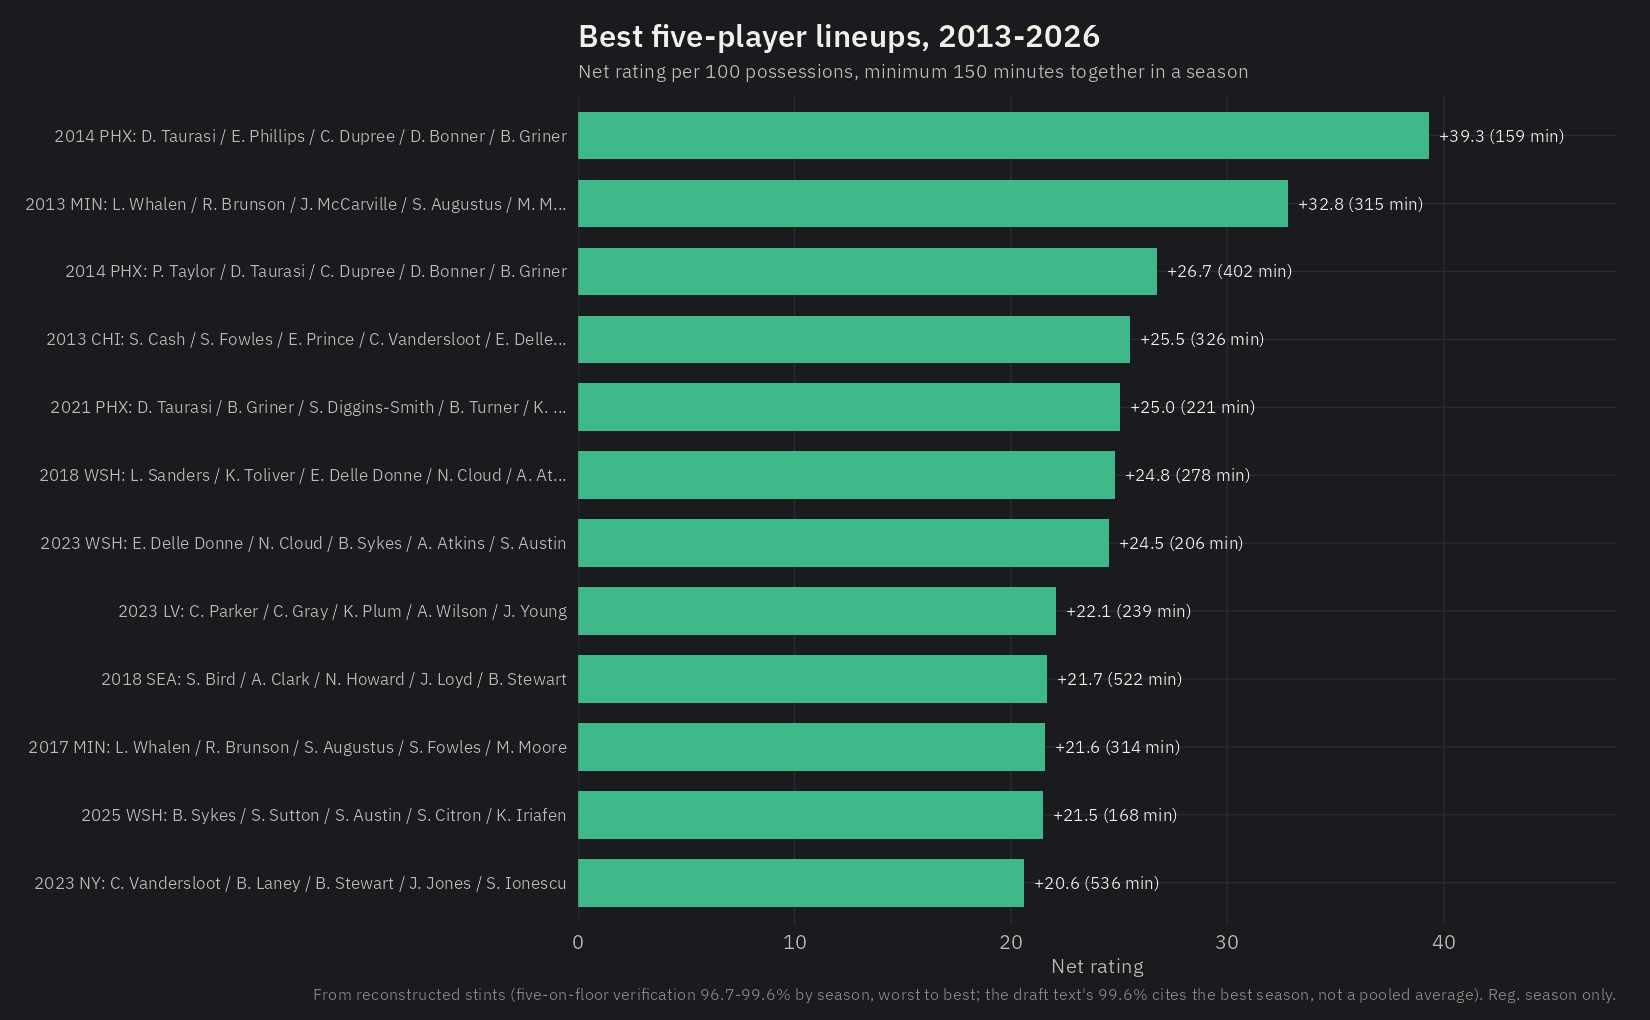
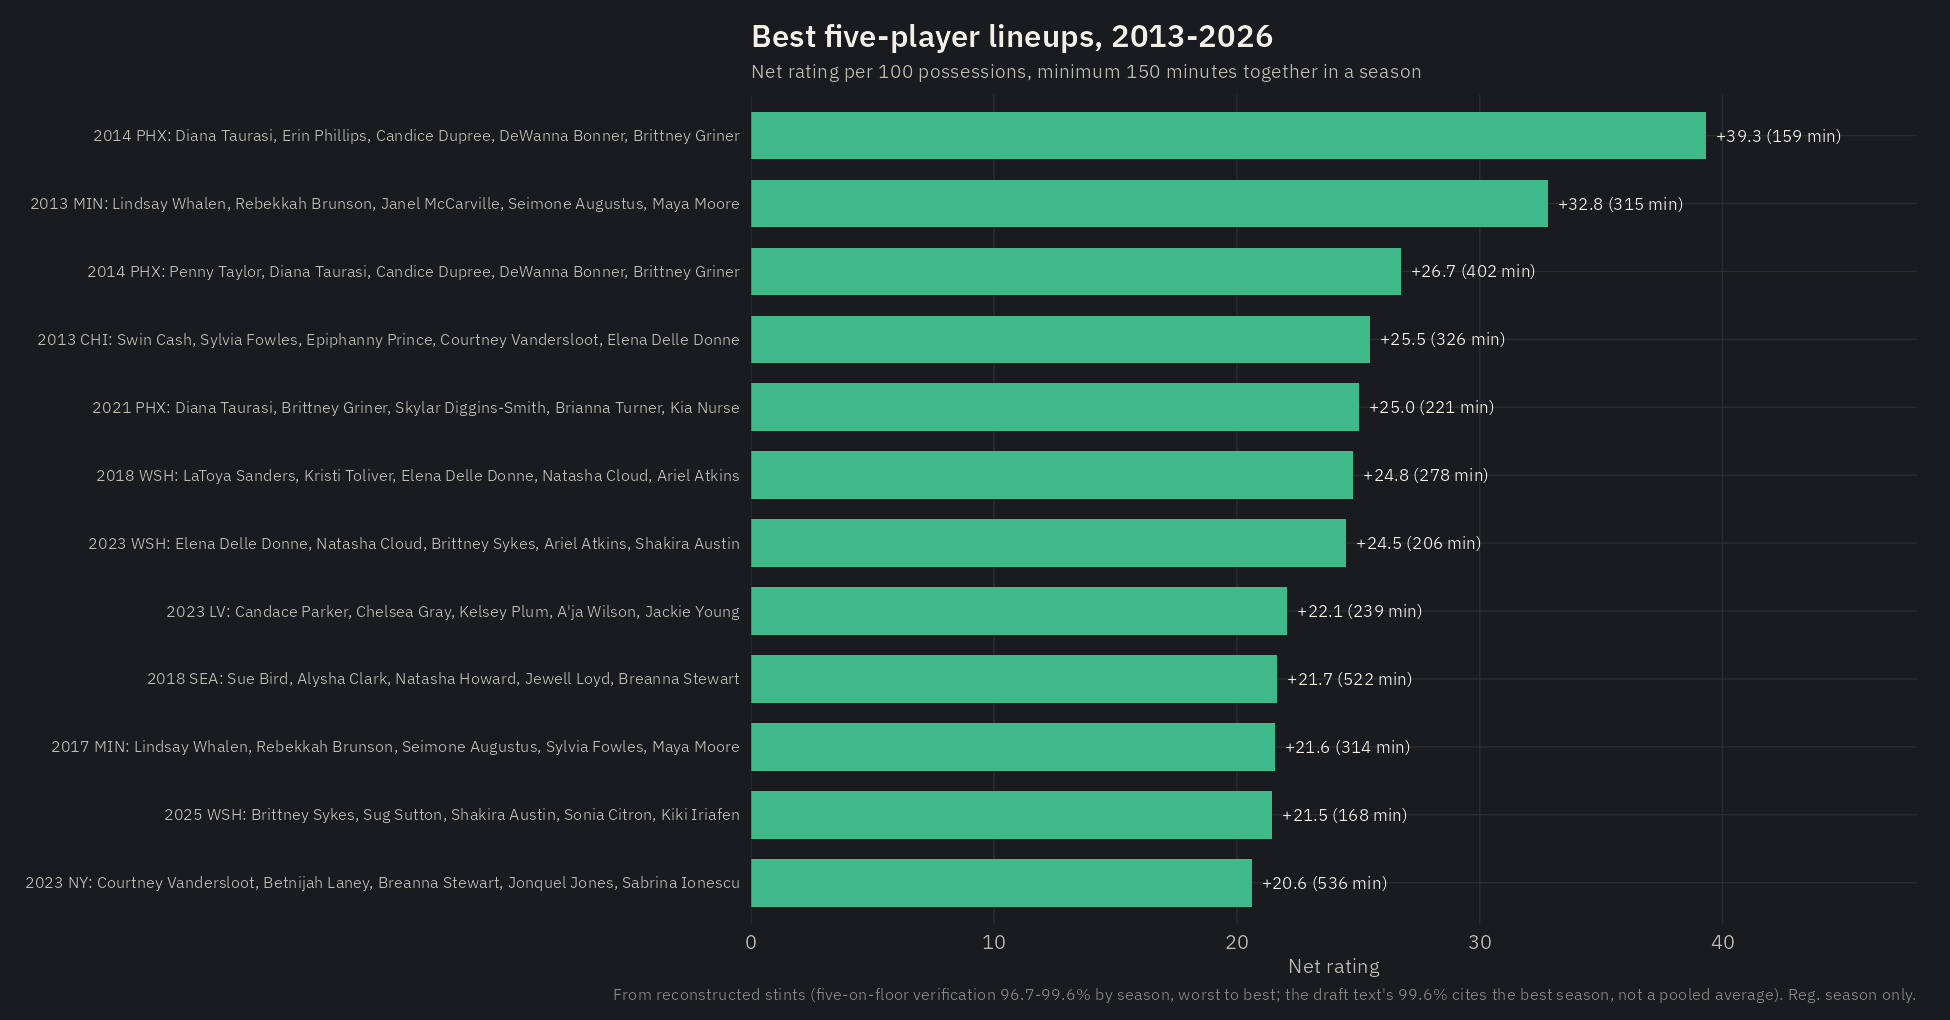
Lineups charts: % y-axis without tautological net line; full player names

diff --git a/src/content/projects/wnba-best-lineups.md b/src/content/projects/wnba-best-lineups.md
@@ -40,8 +40,8 @@ Every 100-plus-minute lineup-season from 2013 through 2026, sorted into five equ
 | Best fifth | +21.2 | 74.4 | .279 | .246 | .671 |
 
 <figure>
-  <img src="/images/wnba-lineups/style-vs-net-rating.png" alt="Line chart showing net rating rising sharply from the worst fifth of lineups to the best while pace, three-point rate, rim rate, and assists per make stay essentially flat" />
-  <figcaption>245 lineup-seasons, split into five equal groups from worst to best. Each stat is measured against how much it normally varies across lineups; net rating is the only line that moves.</figcaption>
+  <img src="/images/wnba-lineups/style-vs-net-rating.png" alt="Line chart showing pace, three-point rate, rim rate, and assists per make all staying within a few percent of league average across lineup groups ranging from a minus 10.3 to a plus 21.2 net rating" />
+  <figcaption>245 lineup-seasons, split into five equal groups by net rating — a 31-point swing from worst to best. How each group plays stays within a few percent of the league norm, with no pattern from bad to good.</figcaption>
 </figure>
 
 A 31-point swing in net rating, and the best lineups play half a possession per 40 faster than the worst, take two more threes per 100 shots, and get to the rim at literally the same rate, .246 in both groups. Underneath that flat style line, offensive rating runs from 102.6 to 120.7 and defensive rating from 112.9 to 99.5 across the same five groups. Good lineups are not running a different offense. They are running the same one and making it, and stopping the other team from making theirs.
